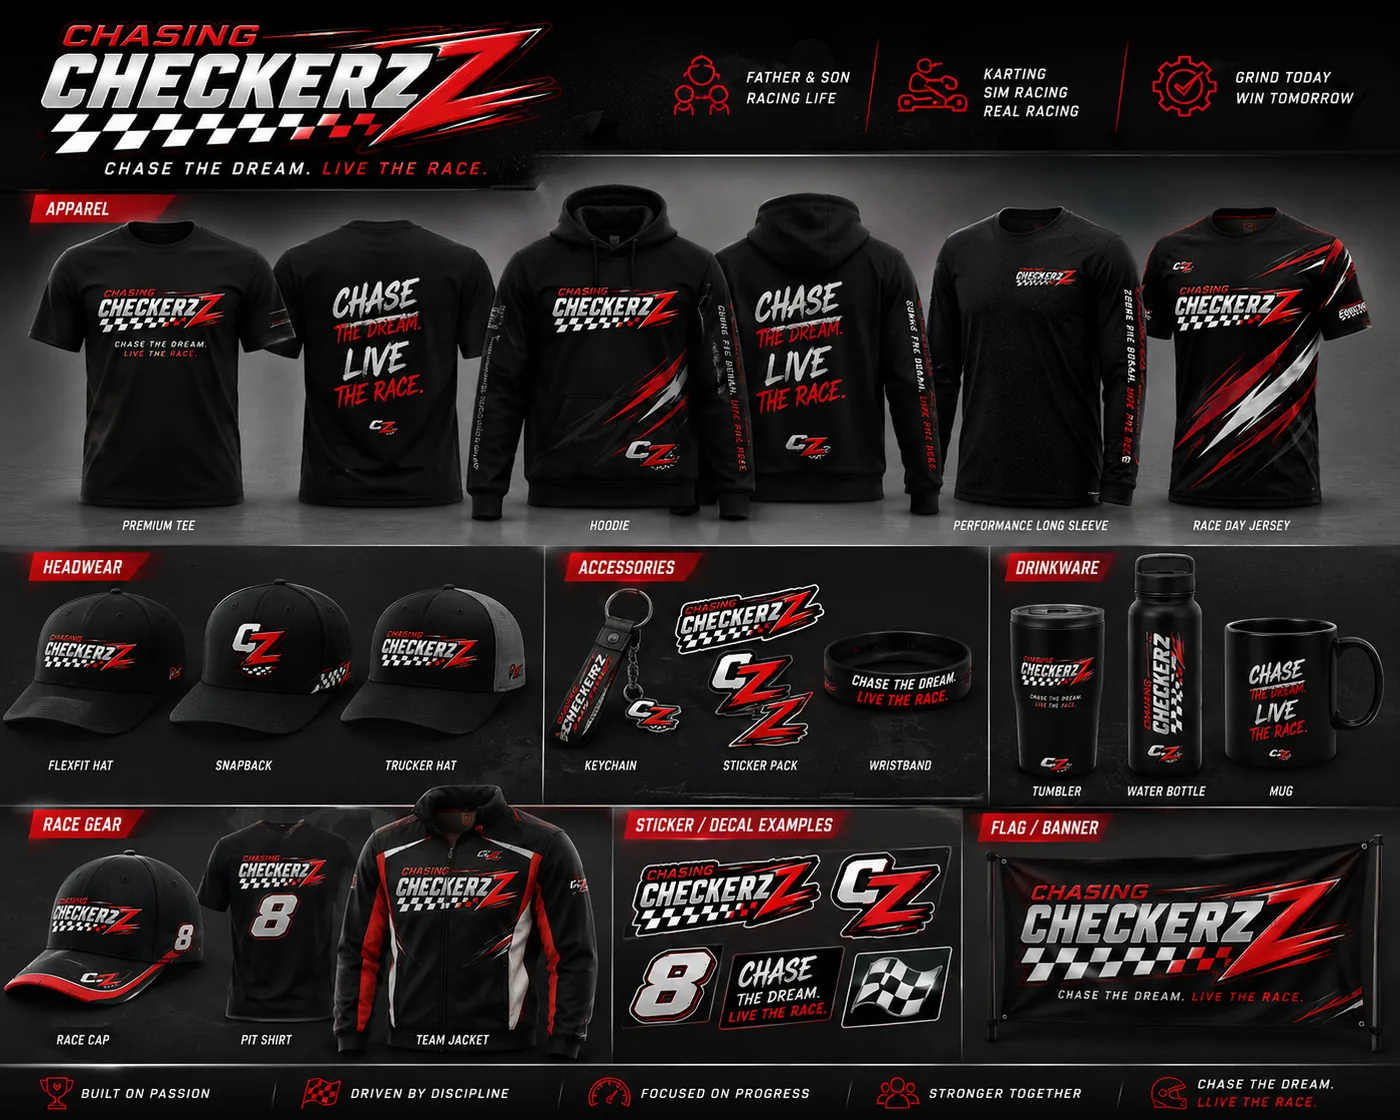
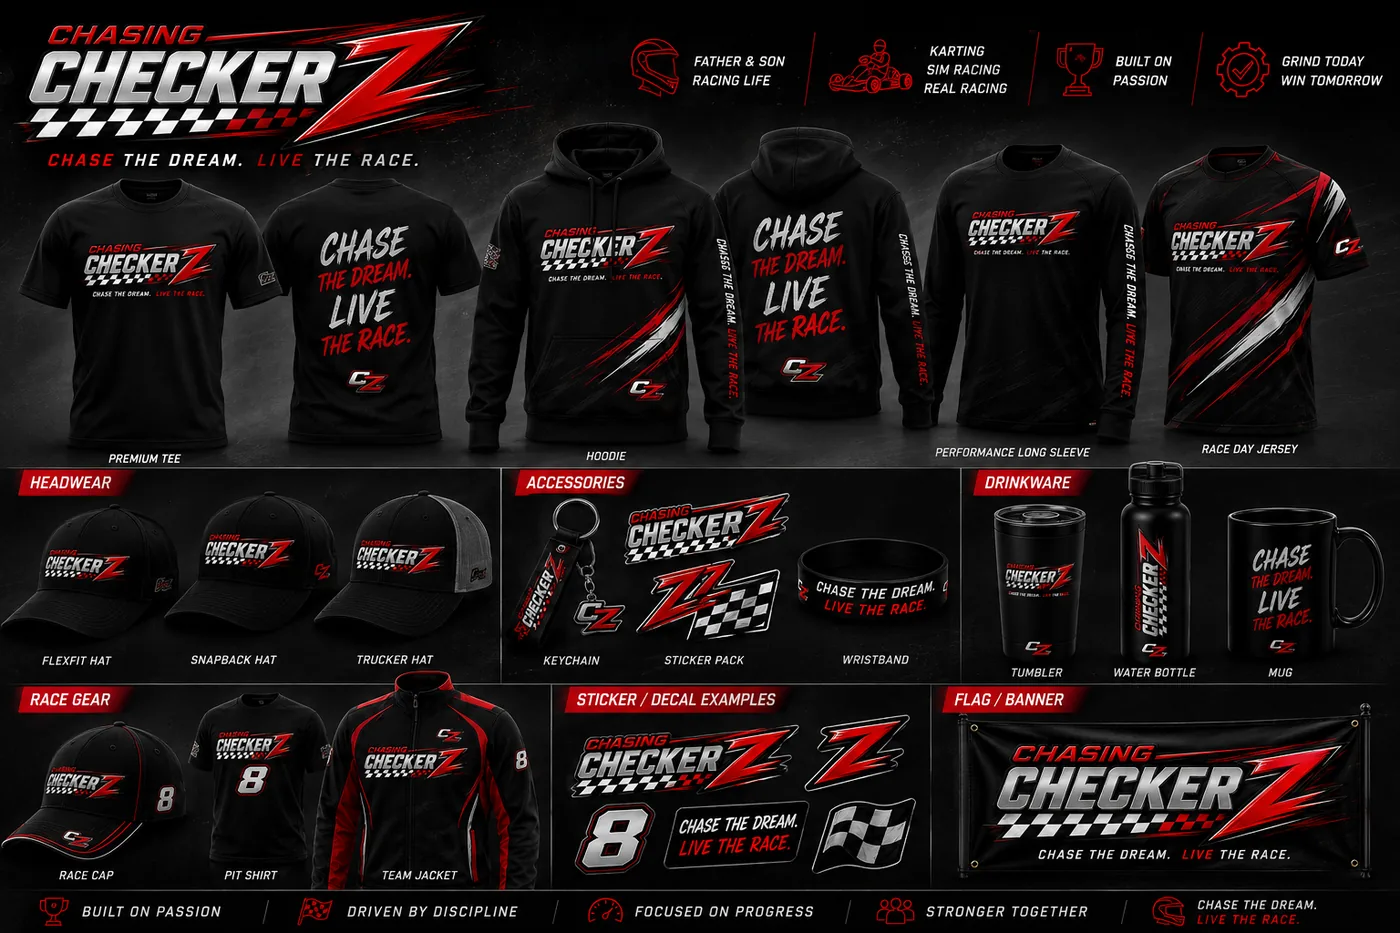
Shop: corrected merch board
Replaces the concept board with the revised artwork — 'LIVE THE RACE'
typo fixed and the wordmark resolved to a single Z. Image is 1400x933,
height attribute updated to match so the layout doesn't shift on load.

diff --git a/shop.html b/shop.html
@@ -84,8 +84,8 @@
   <section class="grp">
     <div class="grp-head"><h2>The range</h2><span class="cnt">Concept</span></div>
     <div class="board">
-      <img src="assets/merch-board.webp" width="1400" height="1120"
-           alt="Chasing Checkerz merchandise concept board showing tees, hoodies, long sleeves, race jerseys, caps, keychains, stickers, wristbands, tumblers, water bottles, mugs, pit shirts, team jackets and a banner">
+      <img src="assets/merch-board.webp" width="1400" height="933"
+           alt="Chasing Checkerz merchandise concept board showing tees, hoodies, long sleeves, race jerseys, caps, keychains, stickers, wristbands, tumblers, water bottles, mugs, race caps, pit shirts, team jackets and a banner">
     </div>
     <p class="boardnote">Concept artwork &mdash; final products, colours and pricing will differ</p>
 
